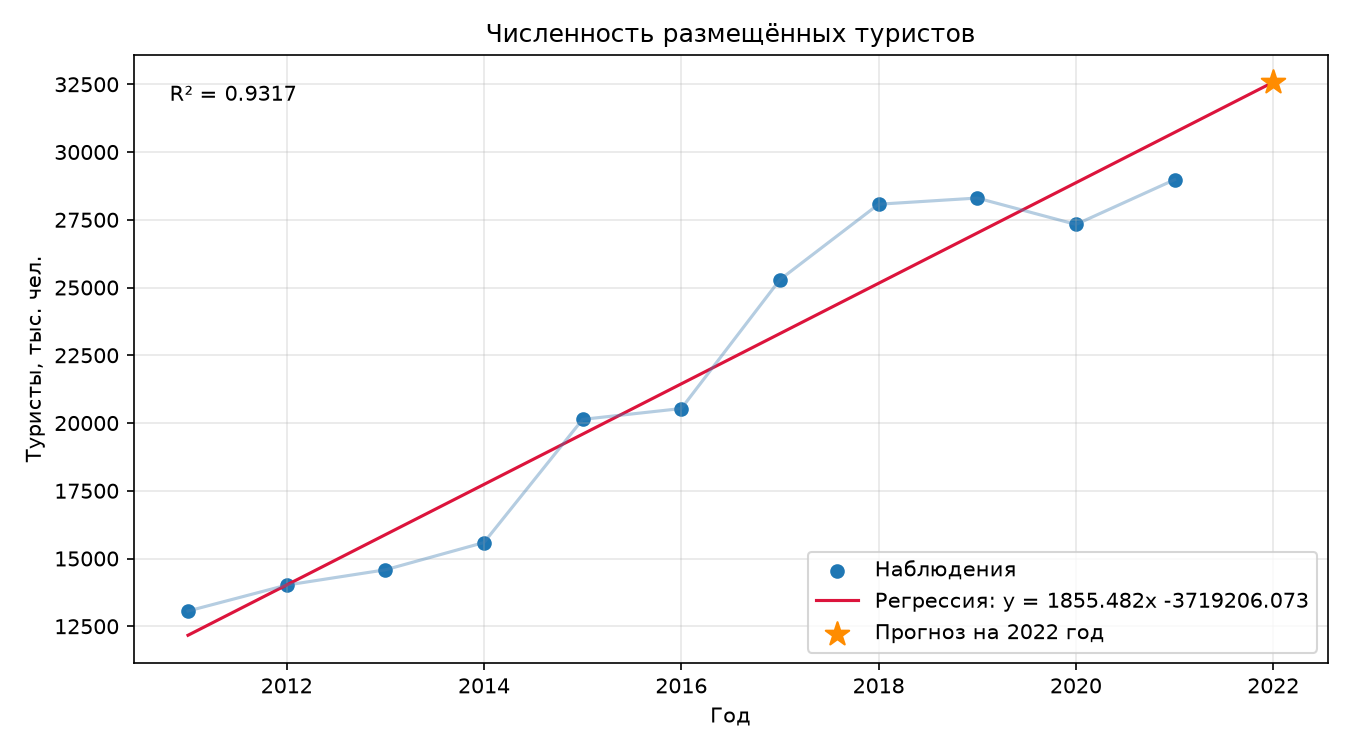
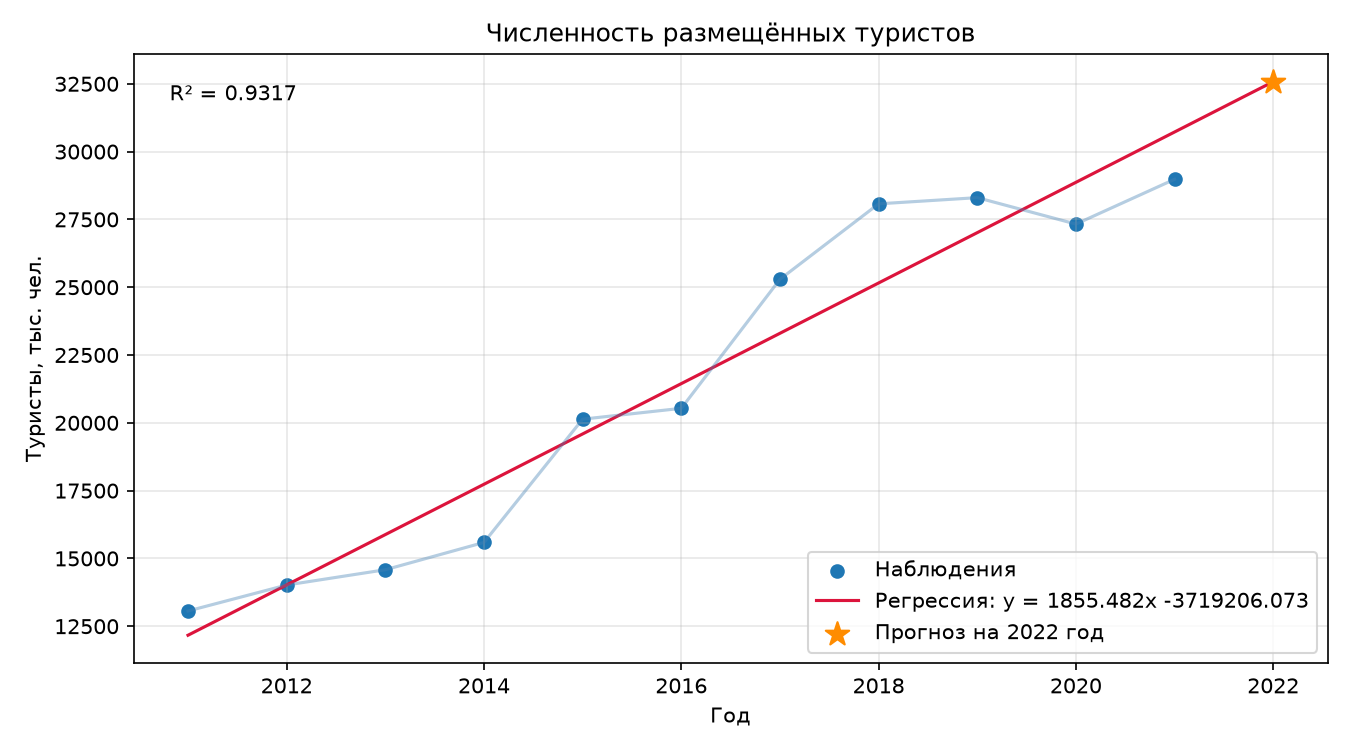
добавить аннотацию

diff --git a/laba_4/main.py b/laba_4/main.py
@@ -1,5 +1,4 @@
-"""Корреляционный и регрессионный анализ данных лабораторной работы № 4."""
-
+from collections.abc import Sequence
 from pathlib import Path
 from statistics import mean
 
@@ -8,7 +7,7 @@ import matplotlib.pyplot as plt
 RESULTS = Path(__file__).resolve().parent / "results"
 
 
-def regression(x, y):
+def regression(x: Sequence[float], y: Sequence[float]) -> tuple[float, float, float, float, float, float, float]:
     """Ковариация и СКО рассчитаны с делением на n; МНК — с константой."""
     x_mean, y_mean = mean(x), mean(y)
     dx = [value - x_mean for value in x]
@@ -22,7 +21,17 @@ def regression(x, y):
     return sxy / len(x), (sxx / len(x)) ** 0.5, (syy / len(y)) ** 0.5, r, slope, intercept, r**2
 
 
-def plot(x, y, slope, intercept, title, xlabel, ylabel, filename, forecast=None):
+def plot(
+    x: Sequence[float],
+    y: Sequence[float],
+    slope: float,
+    intercept: float,
+    title: str,
+    xlabel: str,
+    ylabel: str,
+    filename: str,
+    forecast: float | None = None,
+) -> None:
     fig, ax = plt.subplots(figsize=(9, 5))
     ax.scatter(x, y, label="Наблюдения")
     start, end = min(x), forecast if forecast is not None else max(x)
@@ -42,7 +51,7 @@ def plot(x, y, slope, intercept, title, xlabel, ylabel, filename, forecast=None)
     plt.close(fig)
 
 
-def main():
+def main() -> None:
     RESULTS.mkdir(exist_ok=True)
     x1 = [3.9, 6.5, 3.7, 4.5, 5.0, 5.8, 3.3, 6.2, 3.6, 3.9, 5.1, 6.4,
           4.2, 4.9, 6.0, 5.4, 4.4, 3.8, 6.7, 4.6, 4.3, 6.3, 5.2, 6.4,

diff --git a/README.md b/README.md
@@ -39,4 +39,5 @@ uv sync
 uv run laba_1/main.py
 uv run laba_2/main.py
 uv run laba_3/main.py
+uv run laba_4/main.py
 ```
